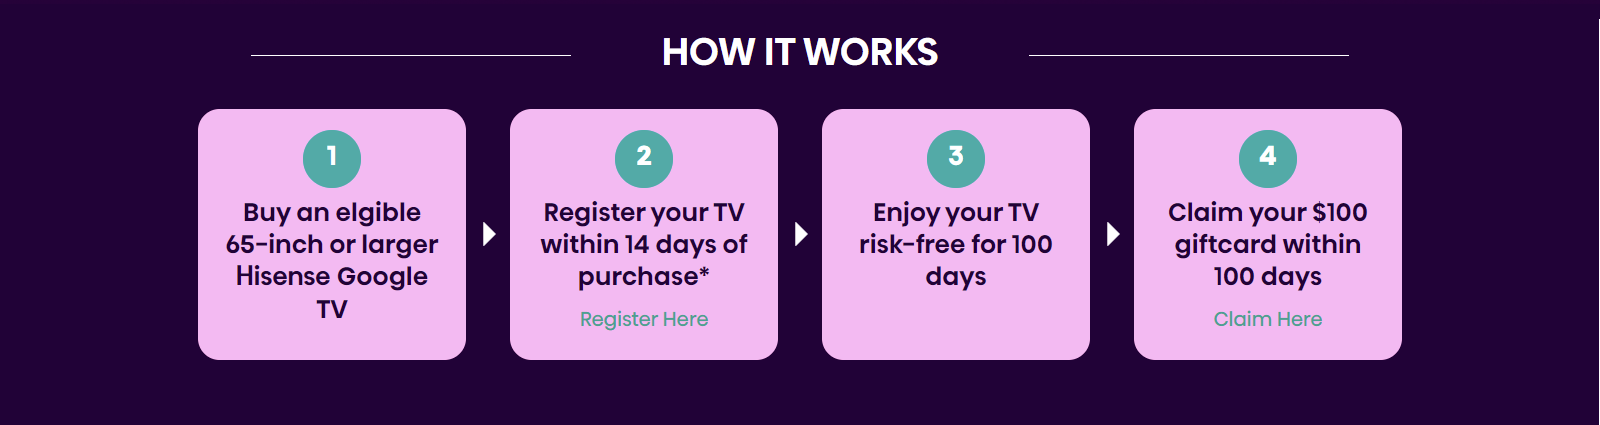
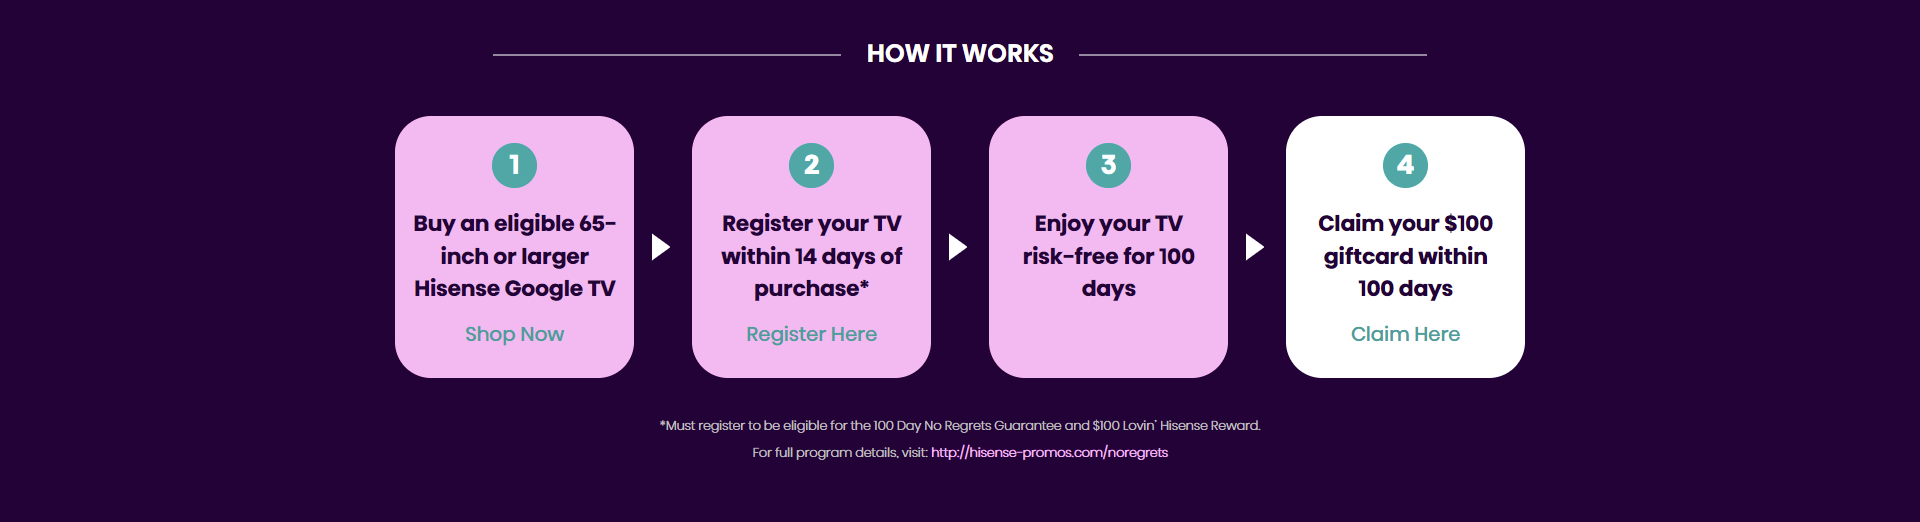
Save All Changes

diff --git a/data/blocks.js b/data/blocks.js
@@ -333,6 +333,7 @@ export const blocks = () => [
       {name: "FAQs", title: "FAQs", image: "FAQs.png"},
       // {name: "Specs", title: "Specs", image: "Specs.png"},
       {name: "Retailers", title: "Retailers", image: "Retailers.png"},
+      {name: "WhereToBuy", title: "WhereToBuy", image: "WhereToBuy.png"},
       // {name: "Resources", title: "Resources", image: "Resources.png"},
     ],
   },
@@ -344,5 +345,27 @@ export const blocks = () => [
       {name: "RegisterForm", title: "Register Form", image: "RegisterForm.png"},
     ],
   },
+  {
+    name: "Sponsership",
+    blocks: [
+      {name: "SponsorshipDescriptionGrayBg", title: "SponsorshipDescriptionGrayBg", image: "SponsorshipDescriptionGrayBg.png"},
+      {name: "SponsorshipTextGradient", title: "SponsorshipDescriptionGrayBg", image: "SponsorshipDescriptionGrayBg.png"},
+      {name: "SponsorshipTitleBox", title: "", image: ".png"},
+      {name: "SponsorshipVideoAndTextBox", title: "", image: ".png"},
+      {name: "SponsorshipBigImageAndText", title: "", image: ".png"},
+      {name: "SponsorshipImagesWithButton", title: "", image: ".png"},
+      {name: "SponsorImageAndText", title: "", image: ".png"},
+      {name: "SponsorImageAndLogo", title: "", image: ".png"},
+      {name: "", title: "", image: ".png"},
+      {name: "", title: "", image: ".png"},
+      {name: "", title: "", image: ".png"},
+      {name: "", title: "", image: ".png"},
+      {name: "", title: "", image: ".png"},
+      {name: "", title: "", image: ".png"},
+      {name: "", title: "", image: ".png"},
+      {name: "", title: "", image: ".png"},
+    ],
+  },
+
 
 ];

diff --git a/components/block/Guarantee.vue b/components/block/Guarantee.vue
@@ -29,6 +29,19 @@ export default class BlockGuarantee extends Vue {
           { title: "Dark", value: this.Theme.dark },
         ],
       },
+      image: {
+        id: 1, type: StructureType.Image, title: 'Image',
+        src: 'https://public.hisenseportal.com/_next/static/media/guarantee.70088343.png',
+        alt: 'Image Alt'
+      },
+      title : {id : 2 , type : StructureType.String , title : 'Title' , value : ''},
+      text : {id : 3 , type : StructureType.Text , title : 'gray Title' , value : '<p>For full program details, visit:<a href="#">http://hisense-promos.com/noregrets</a></p>'},
+
+      leftTitle :{id : 4 , type : StructureType.String , title :'Left Title' , value : 'Shop all eligible models' },
+      leftText :{id : 5 , type : StructureType.String , title :'Left Text' , value : 'Find the TV that’s right for you.' },
+
+      rightTitle :{id : 6 , type : StructureType.String , title :'Right Title' , value : 'Register your purchase' },
+      rightText :{id : 7 , type : StructureType.String , title :'Right Text' , value : 'Register your TV within 14 days.' },
     };
   }
 

diff --git a/components/block/WhereToBuy.vue b/components/block/WhereToBuy.vue
@@ -1,0 +1,42 @@
+<template>
+  <div>
+    <img src="/blocks/WhereToBuy.png" alt=""/>
+  </div>
+</template>
+
+<script lang="ts">
+import {Vue, Component, Prop, VModel, Watch} from "vue-property-decorator";
+import {StructureType} from "~/models/StructureType";
+
+@Component
+export default class HomeWhereToBuy extends Vue {
+  @Prop(Number) readonly id: number | undefined
+  @Prop({default: true}) readonly editable: Boolean | undefined
+  @VModel({type: Object}) model!: Object
+
+  reset() {
+    this.model = {
+      title: {id: 0, type: StructureType.String, title: 'Title', value: 'Find Me At A Store'},
+      productModel: {
+        id: 1,
+        type: StructureType.String,
+        title: 'Product Model Number',
+        value: ''
+      },
+    }
+  }
+
+  mounted() {
+    if (this.isEmpty) this.reset();
+  }
+
+  get isEmpty(): Boolean {
+    return this.model && Object.keys(this.model).length === 0;
+  }
+
+  @Watch('isEmpty')
+  onValueChanged() {
+    if (this.isEmpty) this.reset();
+  }
+}
+</script>

diff --git a/components/block/DoubleWarranty.vue b/components/block/DoubleWarranty.vue
@@ -36,6 +36,13 @@ export default class BlockDoubleWarranty extends Vue {
       },
       title : {id : 2 , type : StructureType.String , title : 'Title' , value : '**Get double the warranty with Hisense Google TVs!'},
       grayTitle : {id : 3 , type : StructureType.String , title : 'gray Title' , value : '**compared to the 1 year industry standard.'},
+
+      leftTitle :{id : 4 , type : StructureType.String , title :'Left Title' , value : 'Shop all eligible models' },
+      leftText :{id : 5 , type : StructureType.String , title :'Left Text' , value : 'Find the TV that’s right for you.' },
+
+      rightTitle :{id : 6 , type : StructureType.String , title :'Right Title' , value : 'Register your purchase' },
+      rightText :{id : 7 , type : StructureType.String , title :'Right Text' , value : 'Register your TV within 14 days.' },
+
     };
   }
 

diff --git a/components/block/EligibleModels.vue b/components/block/EligibleModels.vue
@@ -144,7 +144,8 @@ export default class BlockEligibleModels extends Vue {
           },
         ]
       },
-      link : {id :5 , type : StructureType.Url , title : 'Shop All Eligable Models' , value : '/'}
+      link : {id :5 , type : StructureType.Url , title : 'Shop All Eligable Models' , value : '/'},
+      text :{id : 6 , type : StructureType.Text , title : 'Text' , value : '<p class="ql-align-center">Offer valid from September 1st - October 31st.</p><p class="ql-align-center"><span style="background-color: rgb(255, 255, 255); color: rgb(34, 2, 55);">For full program details, visit:&nbsp;</span><a href="https://public.hisenseportal.com/Day100#" rel="noopener noreferrer" target="_blank" style="background-color: rgb(255, 255, 255); color: rgb(136, 90, 164);">http://hisense-promos.com/noregrets</a></p>'}
     };
   }
 

diff --git a/components/block/ProductsBannerV2.vue b/components/block/ProductsBannerV2.vue
@@ -40,7 +40,7 @@ export default class ProductsBannerV2 extends Vue {
           src: 'https://assets.hisense-usa.com/assets/ContentBuilderImages/39f6c6b03f/content_dp-beautiful-screen-min-clikhq.png',
           alt: 'Some note about this image',
         },
-        title : {id : 2 , type : StructureType.String , title : 'Title' , value : 'Televisions'}
+        title : {id : 2 , type : StructureType.Text , title : 'Title' , value : 'Televisions'}
       }
     }
 
